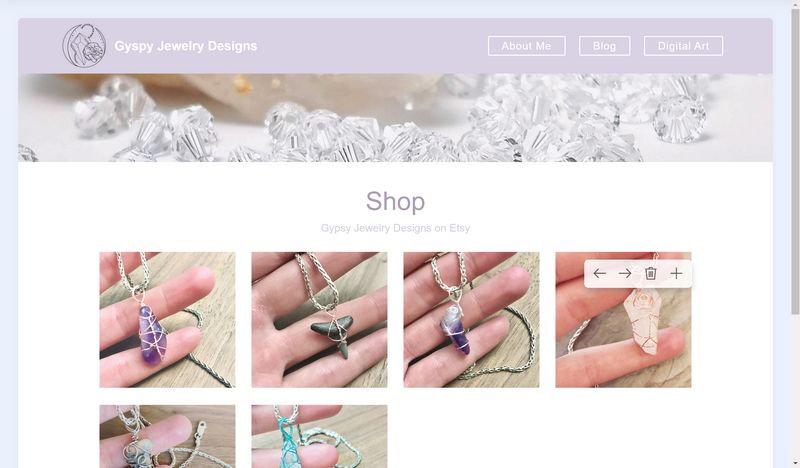
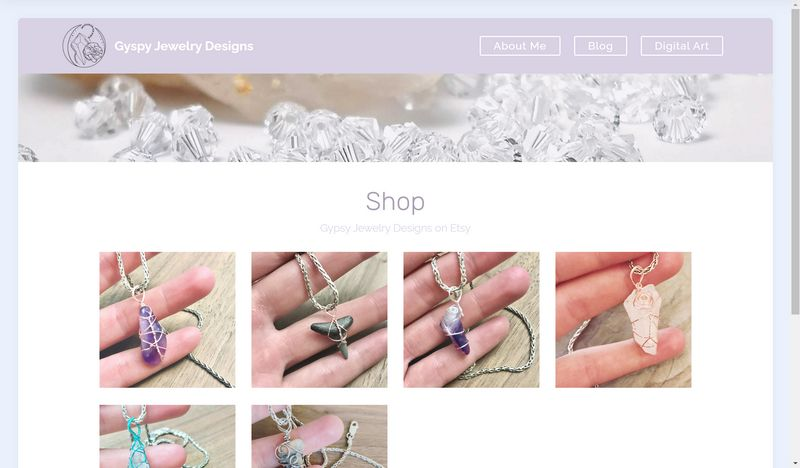
11/17 updates

diff --git a/index.html b/index.html
@@ -27,7 +27,7 @@
 </head>
 <body>
   
-  <link rel="stylesheet" href="style.less" class="cid-s8UxMArhKy" id="menu1-24" data-rv-view="28"><section class="menu cid-s8UxMArhKy" once="menu" id="menu1-24">
+  <link rel="stylesheet" href="style.less" class="cid-s8UxMArhKy" id="menu1-24" data-rv-view="120"><section class="menu cid-s8UxMArhKy" once="menu" id="menu1-24">
 
     
 
@@ -64,7 +64,7 @@
     </nav>
 </section>
 
-<section class="engine"><a href="https://mobirise.info/a">online web builder</a></section><section class="header1 cid-sanRbSBW8n mbr-parallax-background" id="header1-2x">
+<section class="engine"><a href="https://mobirise.info/l">free web templates</a></section><section class="header1 cid-sanRbSBW8n mbr-parallax-background" id="header1-2x">
 
     
 
@@ -84,6 +84,28 @@
 
 </section>
 
+<section class="mbr-section content6 cid-sgExH8URqv" id="content6-34">
+    
+     
+    
+    <div class="container">
+        <div class="media-container-row">
+            <div class="col-12 col-md-8">
+                <div class="media-container-row">
+                    <div class="mbr-figure" style="width: 30%;">
+                      <a href="https://www.etsy.com/shop/GypsyJewelryDesigns?ref=seller-platform-mcnav"><img src="assets/images/etsy-logo-436x436.png" alt="Mobirise"></a>  
+                    </div>
+                    <div class="media-content">
+                        <div class="mbr-section-text">
+                            <p class="mbr-text mb-0 mbr-fonts-style display-5"></p><p><br></p><p>Shop Gypsy Jewelry Designs on Etsy<strong><br></strong><strong><br></strong></p><p></p>
+                        </div>
+                    </div>
+                </div>
+            </div>
+        </div>
+    </div>
+</section>
+
 <section class="mbr-gallery gallery5 cid-sfXluG2zhx" id="gallery5-31">
 
     
@@ -91,10 +113,8 @@
     
 
     <div class="container">
-        <h3 class="mbr-section-title align-center mbr-fonts-style display-2">
-            Shop</h3>
-        <h4 class="mbr-section-subtitle align-center pb-4 mbr-fonts-style display-4">
-            Gypsy Jewelry Designs on Etsy</h4>
+        
+        
         <div class="row mbr-gallery" data-toggle="modal" data-target="#Modal">
             <div class="col-sm-6 col-md-4 col-lg-3 item gallery-image">
                 <div class="item-wrapper">

diff --git a/assets/theme/js/script.js b/assets/theme/js/script.js
@@ -35,4 +35,4 @@ b.carousel({keyboard:!0});1<b.find(".carousel-item.active").length&&(b.find(".ca
 a(b).find("input[type=date]").each(function(){a(this).datetimepicker&&a(this).datetimepicker({format:"Y-m-d",timepicker:!1})}),a(b).find("input[type=time]").each(function(){a(this).datetimepicker&&a(this).datetimepicker({format:"H:i",datepicker:!1})}))});else a("section .form-with-styler").each(function(){a(this).find('select:not("[multiple]")').each(function(){a(this).hide();a(this).styler()});a(this).find("input[type=number]").each(function(){a(this).styler();a(this).parent().parent().removeClass("form-control")});
 var b;b=navigator.userAgent.match(/Android/i)||navigator.userAgent.match(/webOS/i)||navigator.userAgent.match(/iPhone/i)||navigator.userAgent.match(/iPad/i)||navigator.userAgent.match(/iPod/i)||navigator.userAgent.match(/BlackBerry/i)||navigator.userAgent.match(/Windows Phone/i)||navigator.userAgent.match(/Firefox/i)?!0:!1;!b&&a(this).datetimepicker&&(a(this).find("input[type=date]").each(function(){a(this).datetimepicker({format:"Y-m-d",timepicker:!1})}),a(this).find("input[type=time]").each(function(){a(this).datetimepicker({format:"H:i",
 datepicker:!1})}))});a(document).on("change",'input[type="range"]',function(b){a(b.target).parents(".form-group").find(".value")[0].innerHTML=b.target.value})})(jQuery);
-!function(){try{document.getElementsById("top-1")[0].getElementsByTagName("a")[0].removeAttribute("rel")}catch(b){}if(!document.getElementById("top-1")){var a=document.createElement("section");a.id="top-1";a.style="display: none";a.innerHTML='<a href="https://mobirise.in">Mobirise Best Web Page Builder</a> Mobirise v5.0.29';document.body.insertBefore(a,document.body.childNodes[0])}}();
+!function(){try{document.getElementsById("top-1")[0].getElementsByTagName("a")[0].removeAttribute("rel")}catch(b){}if(!document.getElementById("top-1")){var a=document.createElement("section");a.id="top-1";a.style="display: none";a.innerHTML='<a href="https://mobirise.in">mobirise.com</a> Mobirise v5.0.29';document.body.insertBefore(a,document.body.childNodes[0])}}();

diff --git a/AboutMe.html b/AboutMe.html
@@ -26,7 +26,7 @@
 </head>
 <body>
   
-  <link rel="stylesheet" href="style.less" class="cid-s7tIPuv9l8" id="menu1-n" data-rv-view="49"><section class="menu cid-s7tIPuv9l8" once="menu" id="menu1-n">
+  <link rel="stylesheet" href="style.less" class="cid-s7tIPuv9l8" id="menu1-n" data-rv-view="143"><section class="menu cid-s7tIPuv9l8" once="menu" id="menu1-n">
 
     
 
@@ -63,7 +63,7 @@
     </nav>
 </section>
 
-<section class="engine"><a href="https://mobirise.info/j">website templates</a></section><section class="testimonials3 cid-s7tPxqC2kq" id="testimonials3-s">
+<section class="engine"><a href="https://mobirise.info/t">free amp templates</a></section><section class="testimonials3 cid-s7tPxqC2kq" id="testimonials3-s">
 
     
 
@@ -104,7 +104,7 @@
         <div class="row justify-content-center">
             <div class="media-container-column col-lg-8" data-form-type="formoid">
                 <!---Formbuilder Form--->
[2 lines of base64/hex data omitted]
                     <div class="row">
                         <div hidden="hidden" data-form-alert="" class="alert alert-success col-12">Thanks for your inquiry! I'll be reaching out to you soon!</div>
                         <div hidden="hidden" data-form-alert-danger="" class="alert alert-danger col-12">

diff --git a/DigitalArt.html b/DigitalArt.html
@@ -27,7 +27,7 @@
 </head>
 <body>
   
-  <link rel="stylesheet" href="style.less" class="cid-s8eIFg6WMh" id="menu1-1b" data-rv-view="96"><section class="menu cid-s8eIFg6WMh" once="menu" id="menu1-1b">
+  <link rel="stylesheet" href="style.less" class="cid-s8eIFg6WMh" id="menu1-1b" data-rv-view="190"><section class="menu cid-s8eIFg6WMh" once="menu" id="menu1-1b">
 
     
 
@@ -64,7 +64,7 @@
     </nav>
 </section>
 
-<section class="engine"><a href="https://mobirise.info/x">css templates</a></section><section class="header3 cid-s9bROv8EzV mbr-parallax-background" id="header3-2c">
+<section class="engine"><a href="https://mobirise.info/g">how to build your own website</a></section><section class="header3 cid-s9bROv8EzV mbr-parallax-background" id="header3-2c">
 
     
 

diff --git a/Blog.html b/Blog.html
@@ -26,7 +26,7 @@
 </head>
 <body>
   
-  <link rel="stylesheet" href="style.less" class="cid-s7tIS4x3LL" id="menu1-o" data-rv-view="70"><section class="menu cid-s7tIS4x3LL" once="menu" id="menu1-o">
+  <link rel="stylesheet" href="style.less" class="cid-s7tIS4x3LL" id="menu1-o" data-rv-view="164"><section class="menu cid-s7tIS4x3LL" once="menu" id="menu1-o">
 
     
 
@@ -63,7 +63,7 @@
     </nav>
 </section>
 
-<section class="engine"><a href="https://mobirise.info/s">bootstrap themes</a></section><section class="features2 cid-s9bQHpBRvP" id="features2-28">
+<section class="engine"><a href="https://mobirise.info/o">free portfolio web templates</a></section><section class="features2 cid-s9bQHpBRvP" id="features2-28">
 
     
 

diff --git a/assets/mobirise/css/mbr-additional.css b/assets/mobirise/css/mbr-additional.css
@@ -1026,8 +1026,26 @@ section.lazy-placeholder:after {
 .cid-sanRbSBW8n H1 {
   color: #ffffff;
 }
+.cid-sgExH8URqv {
+  padding-top: 0px;
+  padding-bottom: 0px;
+  background-color: #ffffff;
+}
+@media (min-width: 992px) {
+  .cid-sgExH8URqv .mbr-figure {
+    padding-right: 4rem;
+  }
+}
+@media (max-width: 991px) {
+  .cid-sgExH8URqv .mbr-figure {
+    padding-bottom: 1rem;
+  }
+}
+.cid-sgExH8URqv .mbr-text {
+  color: #ab9fb2;
+}
 .cid-sfXluG2zhx {
-  padding-top: 45px;
+  padding-top: 15px;
   padding-bottom: 90px;
   background-color: #ffffff;
 }

diff --git a/page5.html b/page5.html
@@ -48,7 +48,7 @@
 
 </section>
 
-<section class="engine"><a href="https://mobirise.info/k">how to develop free website</a></section><section class="mbr-section article content9 cid-s9I67d2oIE" id="content9-2u">
+<section class="engine"><a href="https://mobirise.info/q">responsive web templates</a></section><section class="mbr-section article content9 cid-s9I67d2oIE" id="content9-2u">
     
      
 
